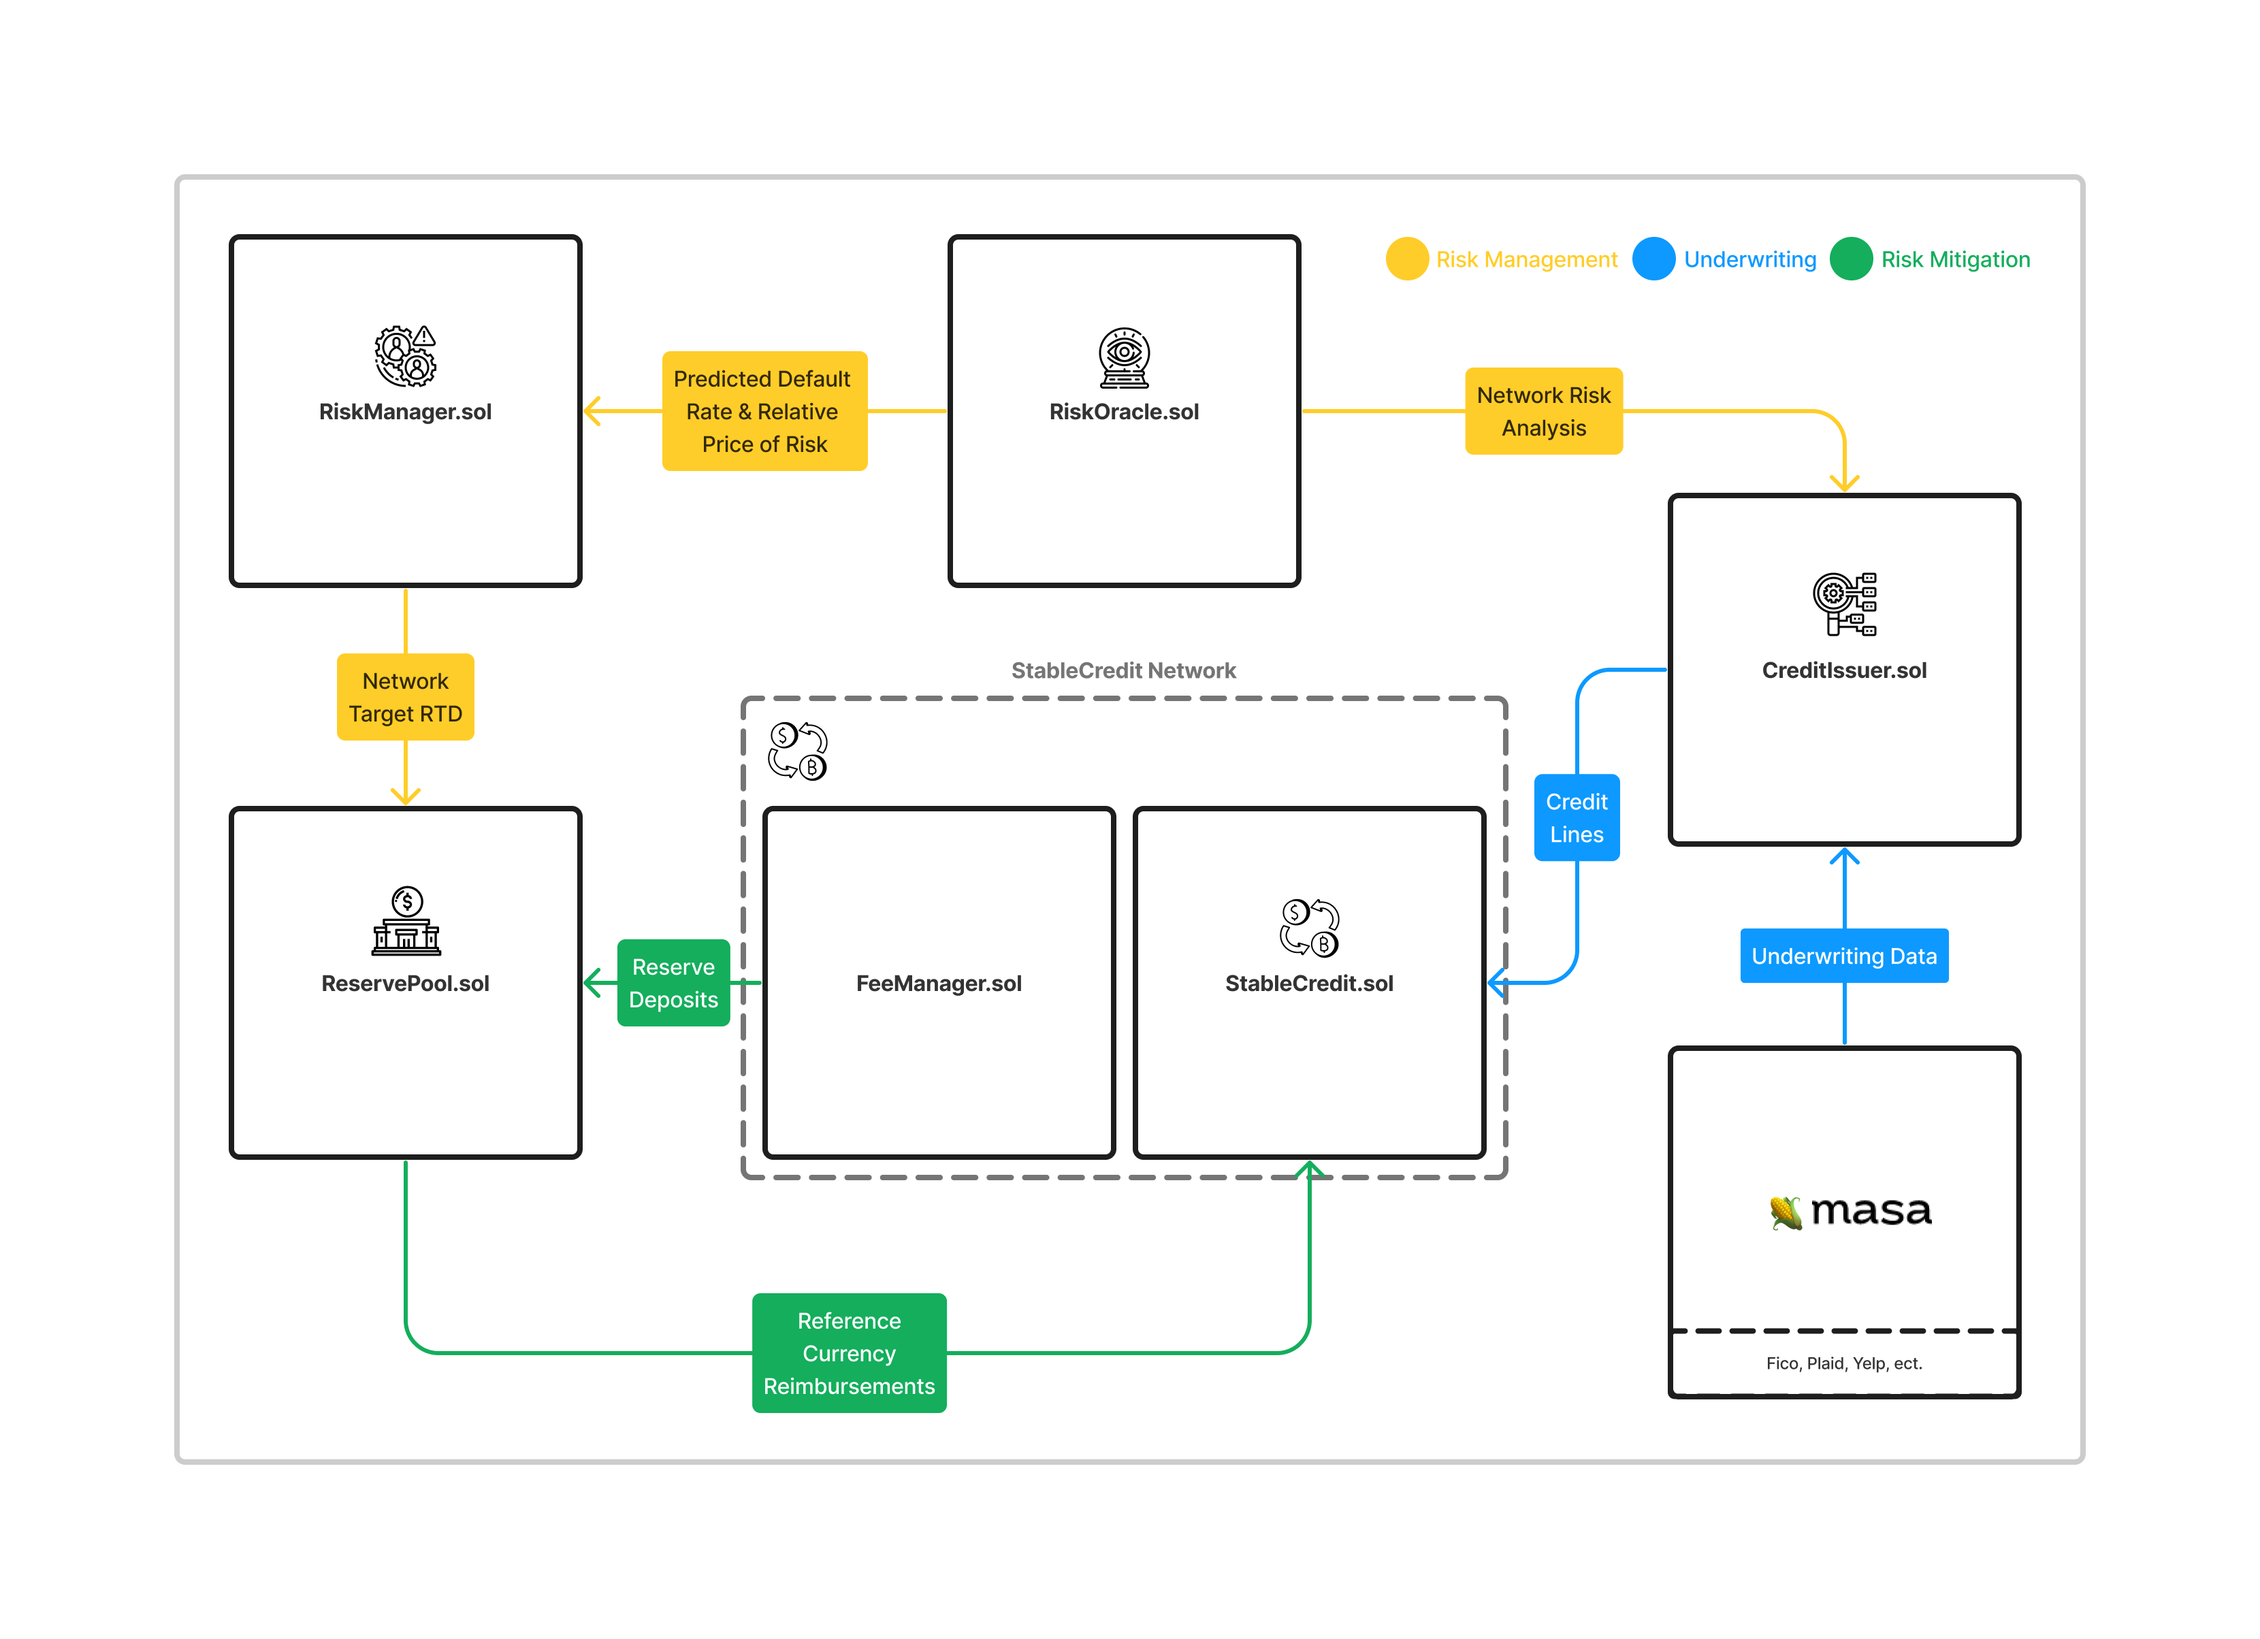
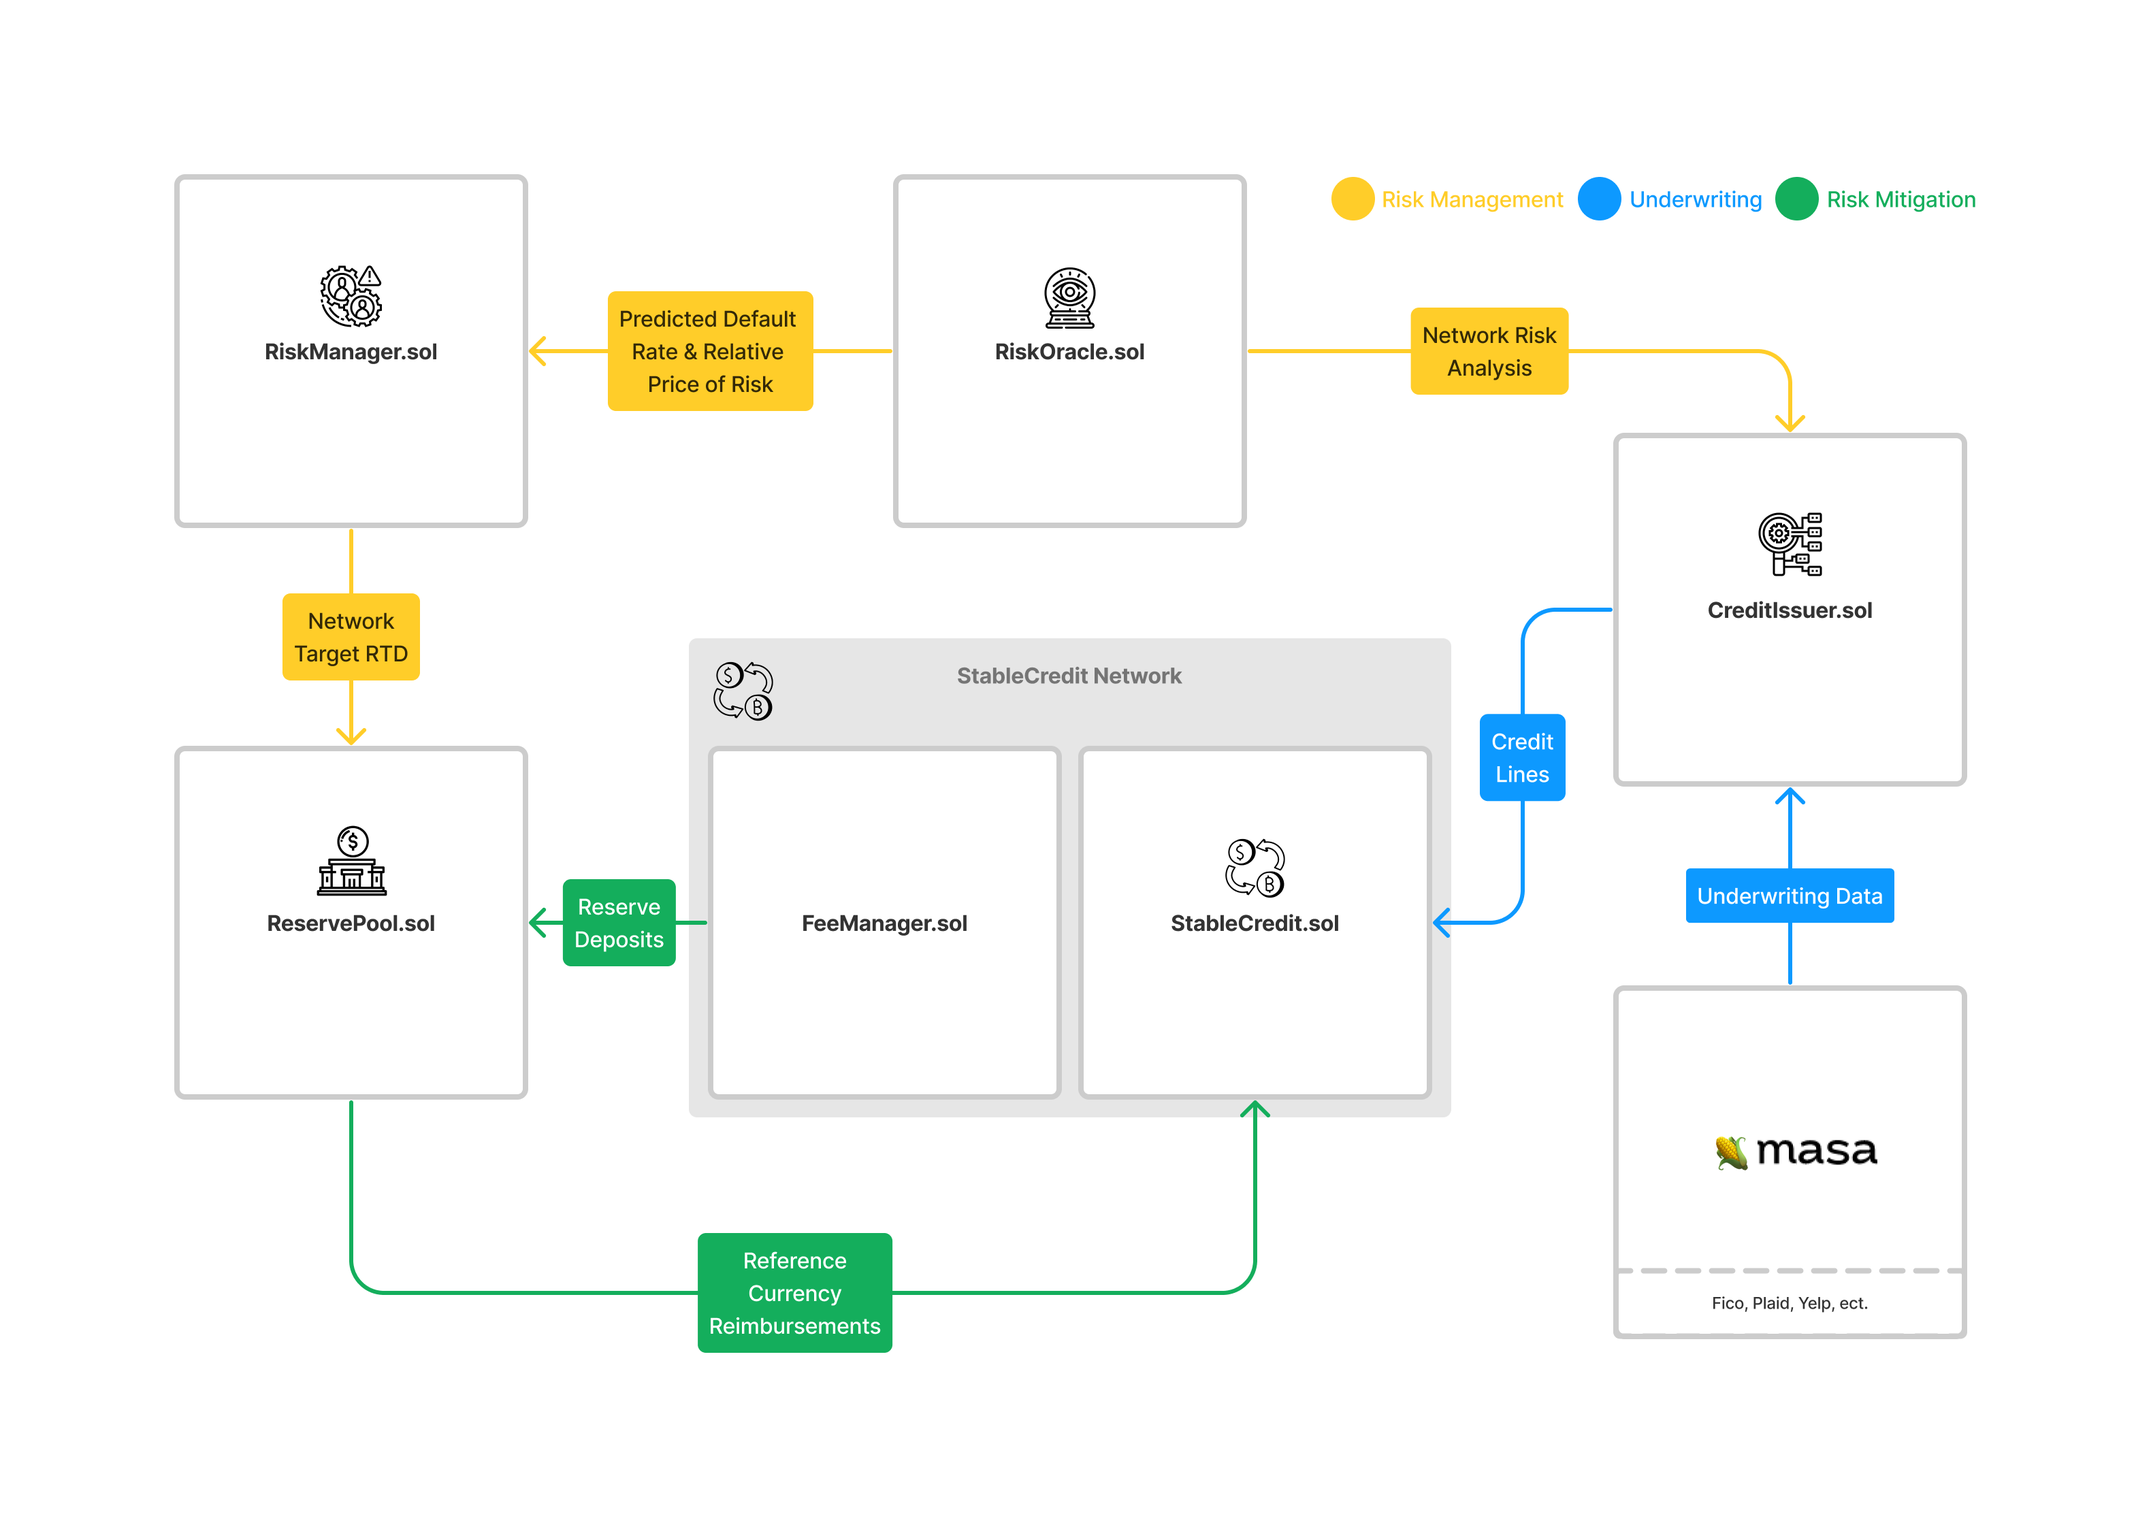
Update README
Update ci.yml

Update Diagram.png

Update README.md

update gitignore

diff --git a/README.md b/README.md
@@ -34,17 +34,15 @@ The following diagram depicts how **Stable Credit** networks interact with the *
 
 ## Contracts:
 
-- **`RiskManager.sol`**: Responsible for referencing risk analysis provided by the `RiskOracle` contract to update network risk variables (ex. BaseFee, target RTD).
 - **`ReservePool.sol`**: Responsible for storing and transferring network reference tokens in order to back the credit currency.
+- **`ReserveRegistry.sol`**: Responsible for maintaining a list of reserves that are to be analyzed and maintained by the ReSource Risk Management infrastructure.
 - **`RiskOracle.sol`**: Responsible for exposing calculated network risk data.
-- **`CreditIssuer.sol`**: Responsible for underwriting network participants to issue credit terms (note: base implementation intended to be extended)
-- **`ReSourceCreditIssuer.sol`** Example extended **CreditIssuer** contract with custom credit terms including minimum ITD (Income to Debt ratio) and credit re-balancing.
 
 # 🏄♂ Quick Start
 
 This project uses [Foundry](https://github.com/foundry-rs/foundry) as the development framework and [Hardhat](https://github.com/NomicFoundation/hardhat) for the deployment framework.
 
-####Dependencies
+#### Dependencies
 
 ```
 yarn install
@@ -54,19 +52,19 @@ yarn install
 forge install
 ```
 
-####Compilation
+#### Compilation
 
 ```bash
 forge build
 ```
 
-####Testing
+#### Testing
 
 ```bash
 forge test
 ```
 
-####Deploy
+#### Deploy
 
 ```bash
 yarn deploy
